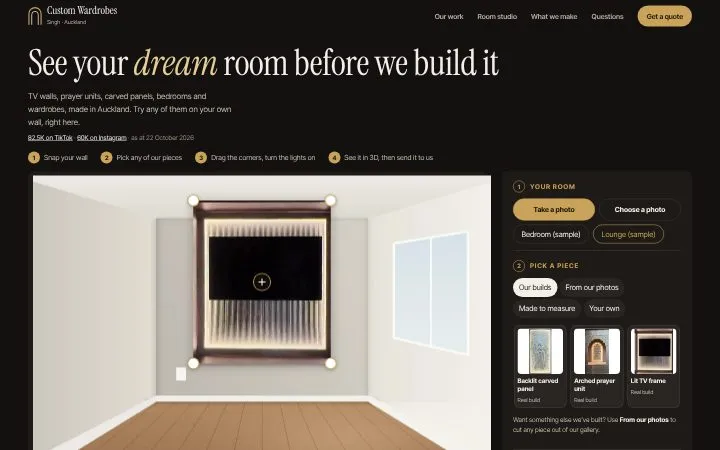
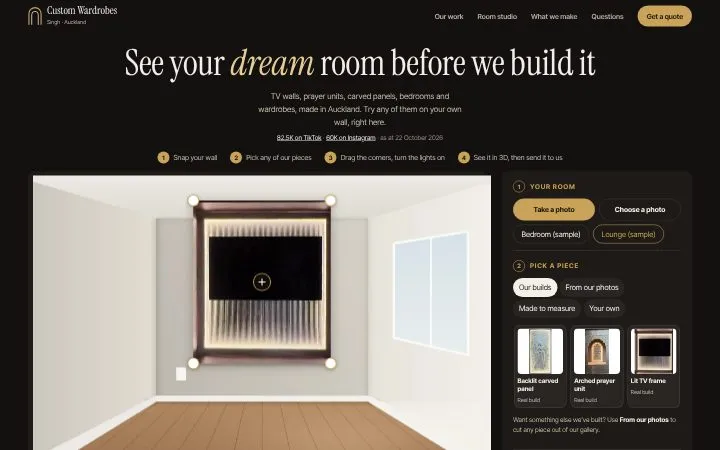
Centre every section, as the owner requires
Headings, intros, paragraphs, build captions and buttons, contact
details, the steps, What we make text, the concept 05 hero, the send
button and the concepts page intro are centred on every concept and on
/v1. FAQs, form fields, the catalogue list and the studio tools stay
left-aligned. tools/align-check.mjs checks this on every page at laptop
and phone width (TOTAL 0), and CLAUDE.md says to run it first.

Claude-Session: https://claude.ai/code/session_01WqnGcpj9xHEybvX22jA6rA

Changed region(s): [[0.0306, 0.0933, 0.825, 0.3733]]

diff --git a/assets/site.css b/assets/site.css
@@ -124,7 +124,7 @@ p { margin: 0; }
 /* Recent builds: a native scroll rail */
 .rail { display: grid; grid-auto-flow: column; grid-auto-columns: clamp(240px, 25vw, 330px); gap: clamp(14px, 2vw, 28px); overflow-x: auto; scroll-snap-type: x mandatory; padding: 4px var(--pad) 18px; scrollbar-width: none; overscroll-behavior-x: contain; }
 .rail::-webkit-scrollbar { display: none; }
-.tile { scroll-snap-align: center; display: grid; gap: 12px; align-content: start; text-align: left; background: none; border: 0; padding: 0; cursor: pointer; color: inherit; }
+.tile { scroll-snap-align: center; display: grid; gap: 12px; align-content: start; text-align: center; justify-items: center; background: none; border: 0; padding: 0; cursor: pointer; color: inherit; }
 .tile .ph { position: relative; overflow: hidden; border-radius: var(--arch); aspect-ratio: 9 / 15; background: var(--sand); }
 .tile img { width: 100%; height: 100%; object-fit: cover; }
 .tile .t { font: 400 22px/1.2 var(--serif); }
@@ -163,7 +163,7 @@ p { margin: 0; }
 .open > .fold .in { opacity: 1; }
 .make-in { display: grid; grid-template-columns: 1fr 1fr 1.2fr; gap: 16px; padding: 0 4px 30px 76px; align-items: end; }
 .make-in img { width: 100%; aspect-ratio: 9 / 14; object-fit: cover; border-radius: 9999px 9999px 14px 14px; }
-.make-in .txt { display: grid; gap: 14px; color: var(--muted); justify-items: start; }
+.make-in .txt { display: grid; gap: 14px; color: var(--muted); justify-items: center; text-align: center; }
 .make-in .txt a { color: var(--accent-text); }
 .make-in.no-photo { grid-template-columns: 1fr; }
 @media (max-width: 720px) {
@@ -207,10 +207,10 @@ p { margin: 0; }
 .faq-item .in { padding: 0 4px 24px; color: var(--muted); }
 
 /* Contact */
-.contact .wrap { display: grid; grid-template-columns: .85fr 1.15fr; gap: clamp(32px, 6vw, 96px); align-items: start; }
-.contact .head { text-align: left; justify-items: start; margin-bottom: 28px; }
-.contact .head .lede { margin: 0; }
-.details { margin: 0; display: grid; gap: 18px; }
+.contact .wrap { display: grid; grid-template-columns: 1fr; max-width: 820px; gap: clamp(28px, 4vw, 48px); align-items: start; }
+.contact .head { text-align: center; justify-items: center; margin-bottom: 28px; }
+.contact .head .lede { margin: 0 auto; }
+.details { margin: 0; display: grid; gap: 18px; justify-items: center; text-align: center; }
 .details div { display: grid; gap: 2px; }
 .details dt { font-size: 13px; font-weight: 700; letter-spacing: .1em; text-transform: uppercase; color: var(--muted); }
 .details dd { margin: 0; font: 400 24px/1.3 var(--serif); }
@@ -224,9 +224,9 @@ p { margin: 0; }
 .field textarea { min-height: 120px; resize: vertical; }
 .field [aria-invalid="true"] { border-color: #a3341c; box-shadow: 0 0 0 1px #a3341c; }
 .hp { position: absolute; left: -9999px; }
-.form .btn { justify-self: start; }
-.form-note { font-size: 13px; color: var(--muted); }
-.form-status { font-size: 15px; font-weight: 600; }
+.form .btn { justify-self: center; grid-column: 1 / -1; }
+.form-note { font-size: 13px; color: var(--muted); text-align: center; }
+.form-status { font-size: 15px; font-weight: 600; text-align: center; }
 .form-status:empty { display: none; }
 .sms-copy { grid-column: 1 / -1; background: var(--sand); border-radius: 10px; padding: 16px; display: grid; gap: 10px; font-size: 15px; }
 .sms-copy pre { margin: 0; white-space: pre-wrap; font: 14px/1.5 var(--sans); }

diff --git a/concepts/designs/01-after-dark/index.html b/concepts/designs/01-after-dark/index.html
@@ -91,6 +91,21 @@ section{padding-block:clamp(80px,11vw,150px)}
 .foot-cols h2{font:600 12px/1 var(--sans);letter-spacing:.16em;text-transform:uppercase;color:var(--c-accent);margin-bottom:12px}.foot ul{list-style:none;margin:0;padding:0;display:grid;gap:6px}.foot a{text-decoration:none}.legal{display:grid;gap:4px;font-size:13px}.legal p{margin:0}
 @media (min-width:901px){.foot{padding-bottom:64px}}
 
+
+.sec-head,.hero-copy,.hero-words,.hero-head,.story-copy,.contact-copy,.tile-txt,.step,.make-in .txt,.feature button,.tt,.cta-band{text-align:center;justify-items:center;justify-content:center}
+.lede{margin-left:auto;margin-right:auto}
+.contact-grid{grid-template-columns:1fr;max-width:820px;margin-inline:auto;gap:clamp(28px,4vw,48px)}
+.contact-copy .lede{margin:0 auto}
+.details{display:flex!important;flex-wrap:wrap;justify-content:center;gap:16px 40px}.details div{display:grid;justify-items:center;text-align:center}
+.tile-act,.make-in .txt,.hero-head .row{justify-content:center}
+.make-in{grid-template-columns:1fr 1fr!important;justify-items:center;padding-left:0!important;padding-right:0!important}.make-in .txt{grid-column:1/-1;max-width:60ch}.make-in.no-photo{grid-template-columns:1fr!important}
+.hero-head{display:grid!important;justify-items:center;justify-content:center;text-align:center}.hero-side{justify-items:center;text-align:center}
+.reel .tile-txt{justify-items:center;text-align:center}
+.step .n{justify-self:center}
+.form .send{grid-column:1/-1;justify-self:center}
+.form-note,.form-status{text-align:center}
+ol.steps,ul.steps{justify-content:center}
+
 </style>
 </head>
 <body>

diff --git a/concepts/designs/02-arch/index.html b/concepts/designs/02-arch/index.html
@@ -88,6 +88,21 @@ section{padding-block:clamp(80px,10vw,140px)}
 .foot ul{list-style:none;margin:0;padding:0;display:grid;gap:6px}.foot a{text-decoration:none}.legal{display:grid;gap:4px;font-size:13px}.legal p{margin:0}
 @media (min-width:901px){.foot{padding-bottom:64px}}
 
+
+.sec-head,.hero-copy,.hero-words,.hero-head,.story-copy,.contact-copy,.tile-txt,.step,.make-in .txt,.feature button,.tt,.cta-band{text-align:center;justify-items:center;justify-content:center}
+.lede{margin-left:auto;margin-right:auto}
+.contact-grid{grid-template-columns:1fr;max-width:820px;margin-inline:auto;gap:clamp(28px,4vw,48px)}
+.contact-copy .lede{margin:0 auto}
+.details{display:flex!important;flex-wrap:wrap;justify-content:center;gap:16px 40px}.details div{display:grid;justify-items:center;text-align:center}
+.tile-act,.make-in .txt,.hero-head .row{justify-content:center}
+.make-in{grid-template-columns:1fr 1fr!important;justify-items:center;padding-left:0!important;padding-right:0!important}.make-in .txt{grid-column:1/-1;max-width:60ch}.make-in.no-photo{grid-template-columns:1fr!important}
+.hero-head{display:grid!important;justify-items:center;justify-content:center;text-align:center}.hero-side{justify-items:center;text-align:center}
+.reel .tile-txt{justify-items:center;text-align:center}
+.step .n{justify-self:center}
+.form .send{grid-column:1/-1;justify-self:center}
+.form-note,.form-status{text-align:center}
+ol.steps,ul.steps{justify-content:center}
+
 </style>
 </head>
 <body>

diff --git a/concepts/designs/03-reels/index.html b/concepts/designs/03-reels/index.html
@@ -92,6 +92,21 @@ section{padding-block:clamp(72px,10vw,130px)}
 .foot ul{list-style:none;margin:0;padding:0;display:grid;gap:6px}.foot a{text-decoration:none}.legal{display:grid;gap:4px;font-size:13px}.legal p{margin:0}
 @media (min-width:901px){.foot{padding-bottom:64px}}
 
+
+.sec-head,.hero-copy,.hero-words,.hero-head,.story-copy,.contact-copy,.tile-txt,.step,.make-in .txt,.feature button,.tt,.cta-band{text-align:center;justify-items:center;justify-content:center}
+.lede{margin-left:auto;margin-right:auto}
+.contact-grid{grid-template-columns:1fr;max-width:820px;margin-inline:auto;gap:clamp(28px,4vw,48px)}
+.contact-copy .lede{margin:0 auto}
+.details{display:flex!important;flex-wrap:wrap;justify-content:center;gap:16px 40px}.details div{display:grid;justify-items:center;text-align:center}
+.tile-act,.make-in .txt,.hero-head .row{justify-content:center}
+.make-in{grid-template-columns:1fr 1fr!important;justify-items:center;padding-left:0!important;padding-right:0!important}.make-in .txt{grid-column:1/-1;max-width:60ch}.make-in.no-photo{grid-template-columns:1fr!important}
+.hero-head{display:grid!important;justify-items:center;justify-content:center;text-align:center}.hero-side{justify-items:center;text-align:center}
+.reel .tile-txt{justify-items:center;text-align:center}
+.step .n{justify-self:center}
+.form .send{grid-column:1/-1;justify-self:center}
+.form-note,.form-status{text-align:center}
+ol.steps,ul.steps{justify-content:center}
+
 </style>
 </head>
 <body>

diff --git a/concepts/designs/04-atelier/index.html b/concepts/designs/04-atelier/index.html
@@ -92,6 +92,21 @@ section{padding-block:clamp(80px,10vw,140px)}
 .foot ul{list-style:none;margin:0;padding:0;display:grid;gap:6px}.foot a{text-decoration:none}.legal{display:grid;gap:4px;font-size:13px}.legal p{margin:0}
 @media (min-width:901px){.foot{padding-bottom:64px}}
 
+
+.sec-head,.hero-copy,.hero-words,.hero-head,.story-copy,.contact-copy,.tile-txt,.step,.make-in .txt,.feature button,.tt,.cta-band{text-align:center;justify-items:center;justify-content:center}
+.lede{margin-left:auto;margin-right:auto}
+.contact-grid{grid-template-columns:1fr;max-width:820px;margin-inline:auto;gap:clamp(28px,4vw,48px)}
+.contact-copy .lede{margin:0 auto}
+.details{display:flex!important;flex-wrap:wrap;justify-content:center;gap:16px 40px}.details div{display:grid;justify-items:center;text-align:center}
+.tile-act,.make-in .txt,.hero-head .row{justify-content:center}
+.make-in{grid-template-columns:1fr 1fr!important;justify-items:center;padding-left:0!important;padding-right:0!important}.make-in .txt{grid-column:1/-1;max-width:60ch}.make-in.no-photo{grid-template-columns:1fr!important}
+.hero-head{display:grid!important;justify-items:center;justify-content:center;text-align:center}.hero-side{justify-items:center;text-align:center}
+.reel .tile-txt{justify-items:center;text-align:center}
+.step .n{justify-self:center}
+.form .send{grid-column:1/-1;justify-self:center}
+.form-note,.form-status{text-align:center}
+ol.steps,ul.steps{justify-content:center}
+
 </style>
 </head>
 <body>

diff --git a/concepts/designs/05-studio/index.html b/concepts/designs/05-studio/index.html
@@ -80,6 +80,21 @@ section{padding-block:clamp(70px,9vw,120px)}
 .foot ul{list-style:none;margin:0;padding:0;display:grid;gap:6px}.foot a{text-decoration:none}.legal{display:grid;gap:4px;font-size:13px}.legal p{margin:0}
 @media (min-width:901px){.foot{padding-bottom:64px}}
 
+
+.sec-head,.hero-copy,.hero-words,.hero-head,.story-copy,.contact-copy,.tile-txt,.step,.make-in .txt,.feature button,.tt,.cta-band{text-align:center;justify-items:center;justify-content:center}
+.lede{margin-left:auto;margin-right:auto}
+.contact-grid{grid-template-columns:1fr;max-width:820px;margin-inline:auto;gap:clamp(28px,4vw,48px)}
+.contact-copy .lede{margin:0 auto}
+.details{display:flex!important;flex-wrap:wrap;justify-content:center;gap:16px 40px}.details div{display:grid;justify-items:center;text-align:center}
+.tile-act,.make-in .txt,.hero-head .row{justify-content:center}
+.make-in{grid-template-columns:1fr 1fr!important;justify-items:center;padding-left:0!important;padding-right:0!important}.make-in .txt{grid-column:1/-1;max-width:60ch}.make-in.no-photo{grid-template-columns:1fr!important}
+.hero-head{display:grid!important;justify-items:center;justify-content:center;text-align:center}.hero-side{justify-items:center;text-align:center}
+.reel .tile-txt{justify-items:center;text-align:center}
+.step .n{justify-self:center}
+.form .send{grid-column:1/-1;justify-self:center}
+.form-note,.form-status{text-align:center}
+ol.steps,ul.steps{justify-content:center}
+
 </style>
 </head>
 <body>

diff --git a/concepts/index.html b/concepts/index.html
@@ -196,6 +196,7 @@ footer{border-top:1px solid var(--line);padding:24px 0 120px;color:var(--muted);
   *,*::before,*::after{transition-duration:.01ms!important;animation-duration:.01ms!important}
   .card{opacity:1;transform:none}
 }
+.intro{text-align:center;display:grid;justify-items:center}.intro h1,.intro p{margin-left:auto;margin-right:auto}.steps{justify-content:center;text-align:center}.bar{justify-content:center}footer{text-align:center}
 </style>
 </head>
 <body>

diff --git a/concepts/tools/build.py b/concepts/tools/build.py
@@ -50,6 +50,25 @@ def brand(ink, gold="#c9a35a", sub=True):
             f'<span><b>Custom Wardrobes</b>{s}</span></a>')
 
 
+# Owner's rule: centre section headings, intros, text and buttons. Only FAQs, form fields and the
+# catalogue list stay left-aligned. Added last to every concept so it wins over the concept's own CSS.
+CENTRE = """
+.sec-head,.hero-copy,.hero-words,.hero-head,.story-copy,.contact-copy,.tile-txt,.step,.make-in .txt,.feature button,.tt,.cta-band{text-align:center;justify-items:center;justify-content:center}
+.lede{margin-left:auto;margin-right:auto}
+.contact-grid{grid-template-columns:1fr;max-width:820px;margin-inline:auto;gap:clamp(28px,4vw,48px)}
+.contact-copy .lede{margin:0 auto}
+.details{display:flex!important;flex-wrap:wrap;justify-content:center;gap:16px 40px}.details div{display:grid;justify-items:center;text-align:center}
+.tile-act,.make-in .txt,.hero-head .row{justify-content:center}
+.make-in{grid-template-columns:1fr 1fr!important;justify-items:center;padding-left:0!important;padding-right:0!important}.make-in .txt{grid-column:1/-1;max-width:60ch}.make-in.no-photo{grid-template-columns:1fr!important}
+.hero-head{display:grid!important;justify-items:center;justify-content:center;text-align:center}.hero-side{justify-items:center;text-align:center}
+.reel .tile-txt{justify-items:center;text-align:center}
+.step .n{justify-self:center}
+.form .send{grid-column:1/-1;justify-self:center}
+.form-note,.form-status{text-align:center}
+ol.steps,ul.steps{justify-content:center}
+"""
+
+
 def head(c, css, preload=""):
     return f"""<!doctype html>
 <html lang="en-NZ" data-concept="{c['slug']}">
@@ -70,6 +89,7 @@ def head(c, css, preload=""):
 <script>document.documentElement.classList.add("js");window.CW_BASE="{B}";</script>
 <style>
 {css}
+{CENTRE}
 </style>
 </head>
 <body>

diff --git a/CLAUDE.md b/CLAUDE.md
@@ -9,7 +9,7 @@ Built by AMBS Solutions. Follow the **ambs-website-design** skill (and **website
 
 ## Design rules the owner always checks
 - Everything fits the screen: 390×844 phones and 1280×720 / 1366×768 / 1440×900 / 1536×864 laptops. No overlapping text, and the hero fits the first screen.
-- Centre-align section headings, intros, the hero, the footer and menus. Keep tick lists, FAQs, timelines and forms left-aligned.
+- Centre-align every section from the first draft: headings, intros, paragraphs, cards, captions, contact details, buttons (alone or as a centred row), the hero, the footer and menus. Only FAQs, form fields, the catalogue list and the studio tools stay left-aligned. Run `node tools/align-check.mjs` (with `python3 -m http.server 8124`) and get TOTAL 0 before showing anything.
 - One type scale across all pages, with calm, readable fonts.
 - Real logo (vector), and all accent colours taken from the logo. No glow, haloes, highlighter bands or white outer shadows.
 - No animation on this site (owner's rule, 22 October 2026): no reveals, no stacking cards, no carousels or sliders, no drawing or scroll effects, no hover zoom. Sections open instantly. Videos play only when tapped. The room studio is the interactive feature.
